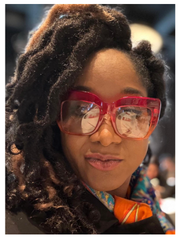
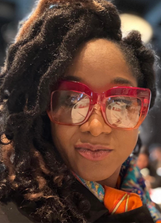
image fix

diff --git a/src/data.ts b/src/data.ts
@@ -27,7 +27,16 @@ export const org = {
   },
 }
 
-export type Person = { name: string; role: string; location?: string; photo: string }
+// noZoom: show the whole photo in the circle (for photos where the head touches the top edge).
+// shrink: also scale it down, leaving white space above the head (white-background photos only).
+export type Person = {
+  name: string
+  role: string
+  location?: string
+  photo: string
+  noZoom?: boolean
+  shrink?: boolean
+}
 
 export const founder: Person = {
   name: 'Mariette Amadi, MD',
@@ -60,8 +69,9 @@ export const team: Person[] = [
     role: 'Business Manager',
     location: 'New York',
     photo: chinelo,
+    noZoom: true,
   },
-  { name: 'Sheila Nwankwo', role: 'Banker', location: 'Nigeria', photo: sheila },
+  { name: 'Sheila Nwankwo', role: 'Banker', location: 'Nigeria', photo: sheila, shrink: true },
   { name: 'Barr. Obiageli Okaro', role: 'Lawyer', location: 'Abuja, Nigeria', photo: obiageli },
   {
     name: 'Mr. Mireku Kwabena Francis',

diff --git a/src/components/Team.tsx b/src/components/Team.tsx
@@ -24,7 +24,7 @@ export default function Team() {
         <ul className="team">
           {team.map((p, i) => (
             <li className="member reveal" style={{ transitionDelay: `${(i % 5) * 70}ms` }} key={p.name}>
-              <div className="member__photo">
+              <div className={`member__photo ${p.noZoom ? 'member__photo--full' : ''} ${p.shrink ? 'member__photo--shrink' : ''}`}>
                 <span>
                   <img src={p.photo} alt={p.name} loading="lazy" />
                 </span>

diff --git a/src/index.css b/src/index.css
@@ -902,6 +902,16 @@ p {
   transform-origin: center 8%;
 }
 
+.member__photo--full img {
+  transform: none;
+  object-position: center 15%;
+}
+
+.member__photo--shrink img {
+  transform: scale(0.86);
+  transform-origin: center bottom;
+}
+
 .member strong {
   display: block;
   font-size: 1rem;
